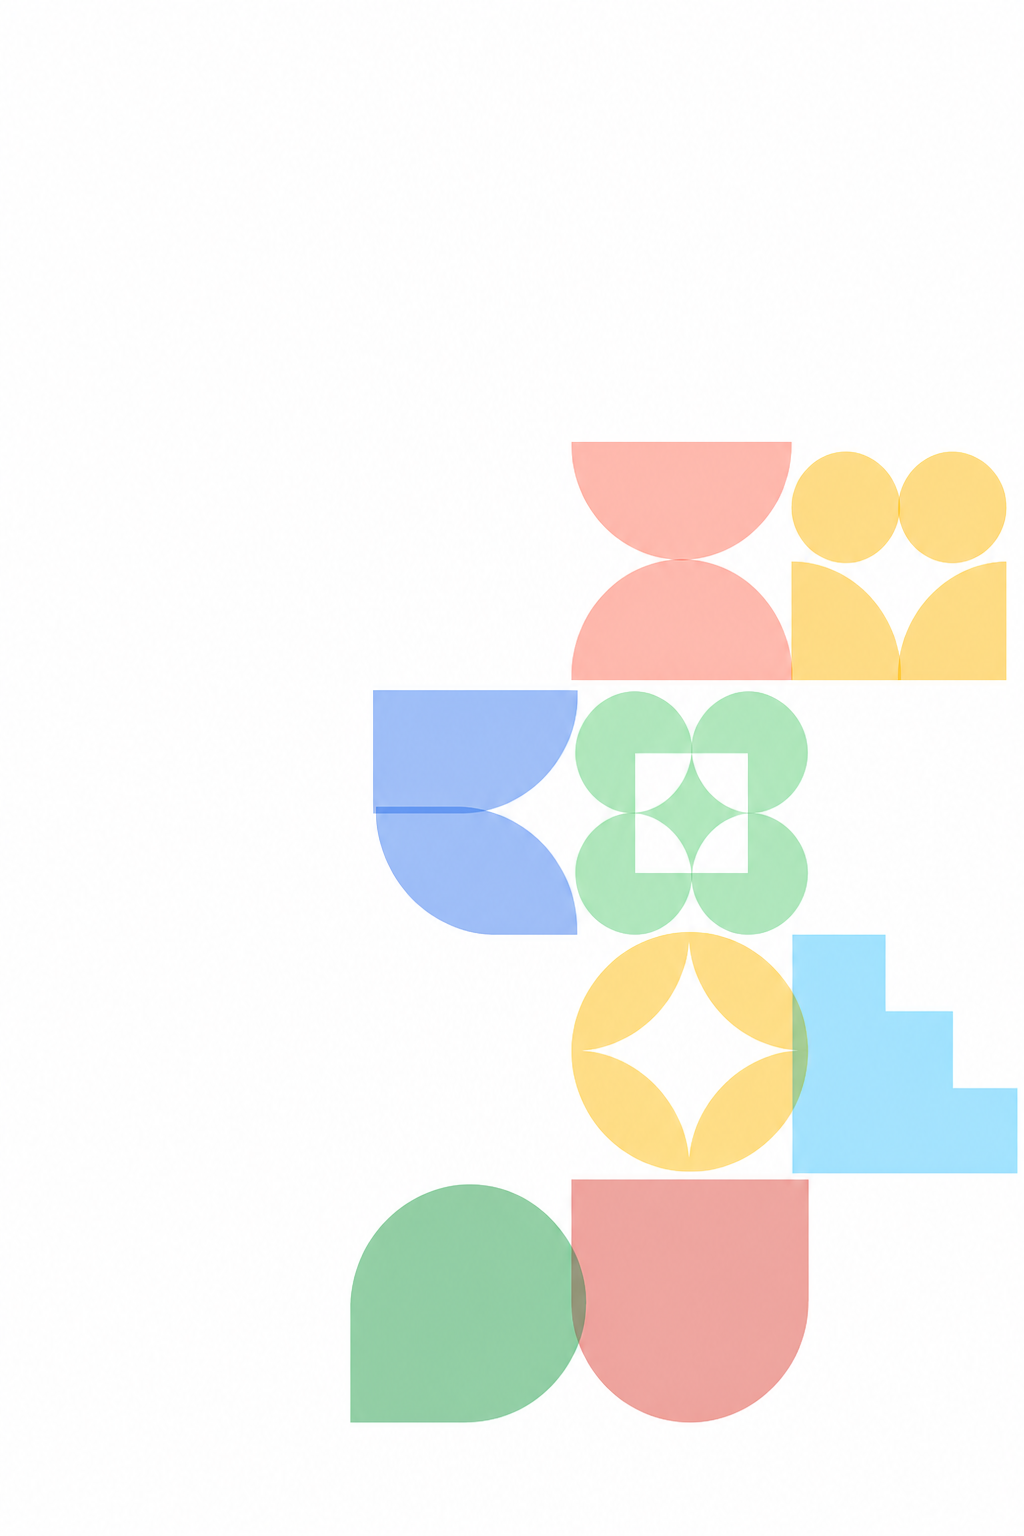
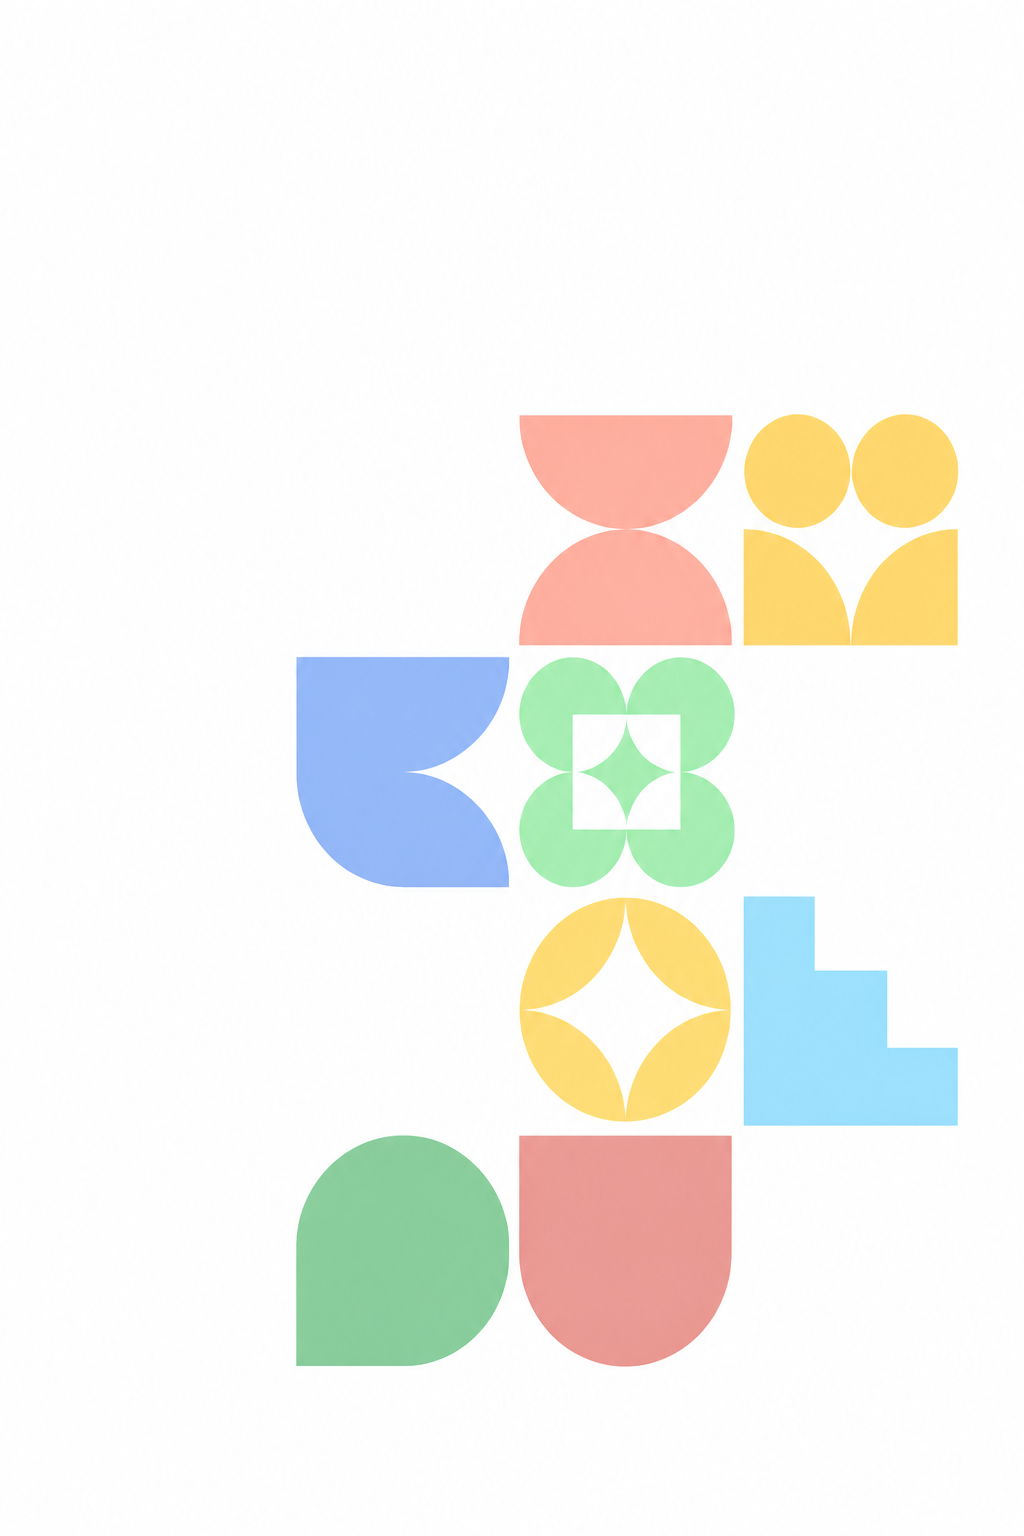
Restore the original eight UMKA background figures.

Changed region(s): [[0.2812, 0.25, 1.0, 0.9375]]

diff --git a/styles.css b/styles.css
@@ -82,15 +82,12 @@ body {
 }
 
 .decor-png {
-  top: 26%;
-  right: -8mm;
-  bottom: -12mm;
-  width: 62%;
-  height: auto;
+  inset: 0;
+  width: 100%;
+  height: 100%;
   object-fit: cover;
   object-position: right center;
   mix-blend-mode: multiply;
-  opacity: 0.95;
 }
 
 .sheet-content {
@@ -177,7 +174,7 @@ body {
 }
 
 .day {
-  max-width: 118mm;
+  max-width: none;
 }
 
 .day-name {
@@ -186,10 +183,12 @@ body {
   font-weight: 700;
   padding-bottom: 1mm;
   border-bottom: 1px solid var(--line);
+  width: 100%;
 }
 
 .slots {
   margin-top: 1.2mm;
+  max-width: 118mm;
 }
 
 .row {
